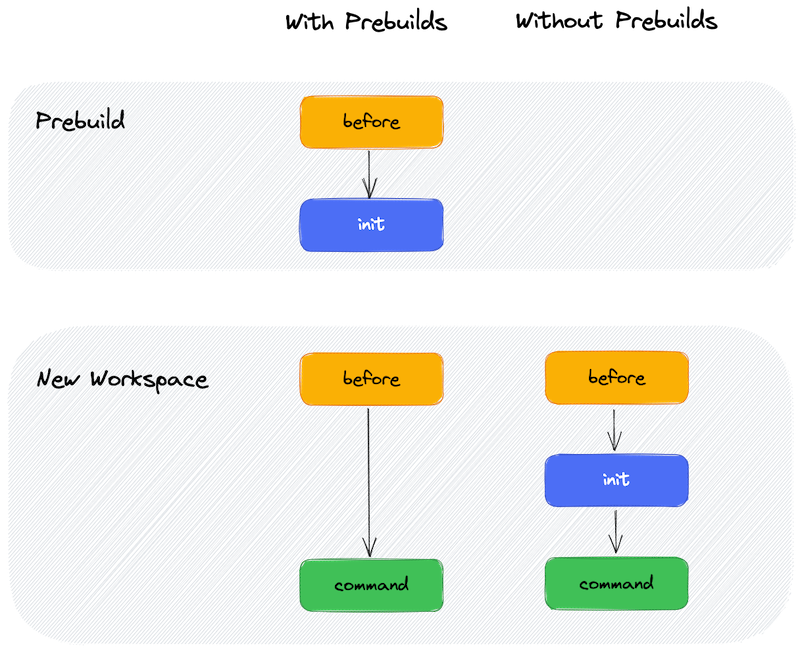
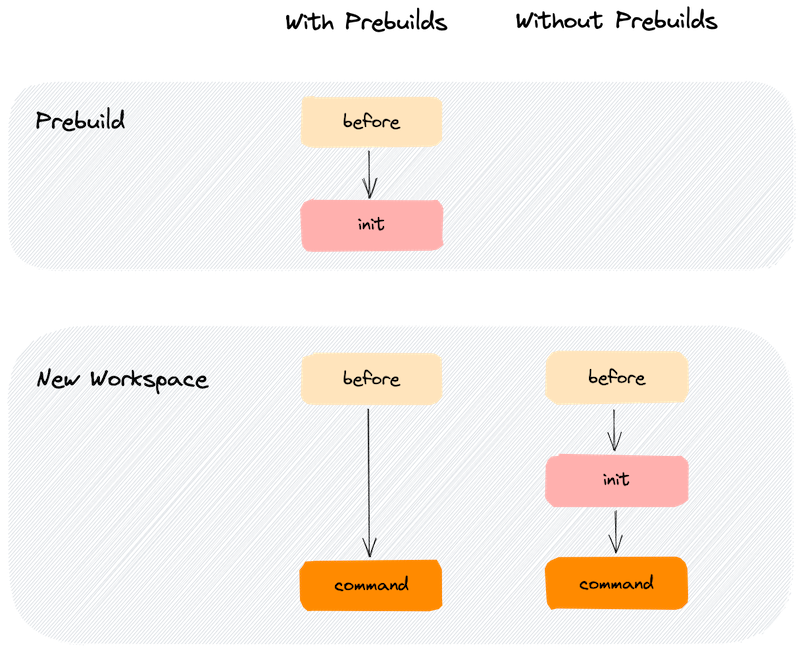
Update diagrams to match brand colors.

diff --git a/src/routes/docs/config-start-tasks.md b/src/routes/docs/config-start-tasks.md
@@ -10,7 +10,7 @@ title: Start Tasks
 # Start Tasks
 
 <!--
-  Source for diagrams: https://excalidraw.com/#json=5027233924120576,Q1wmKmnsM3h5PaJfaTlvag
+  Source for diagrams: https://excalidraw.com/#json=5291407619129344,vFS4ivsh4R9gDuDtr7c-fw
 
   ! If you update the diagrams, make sure you replace the above, immutable URL !
 -->
